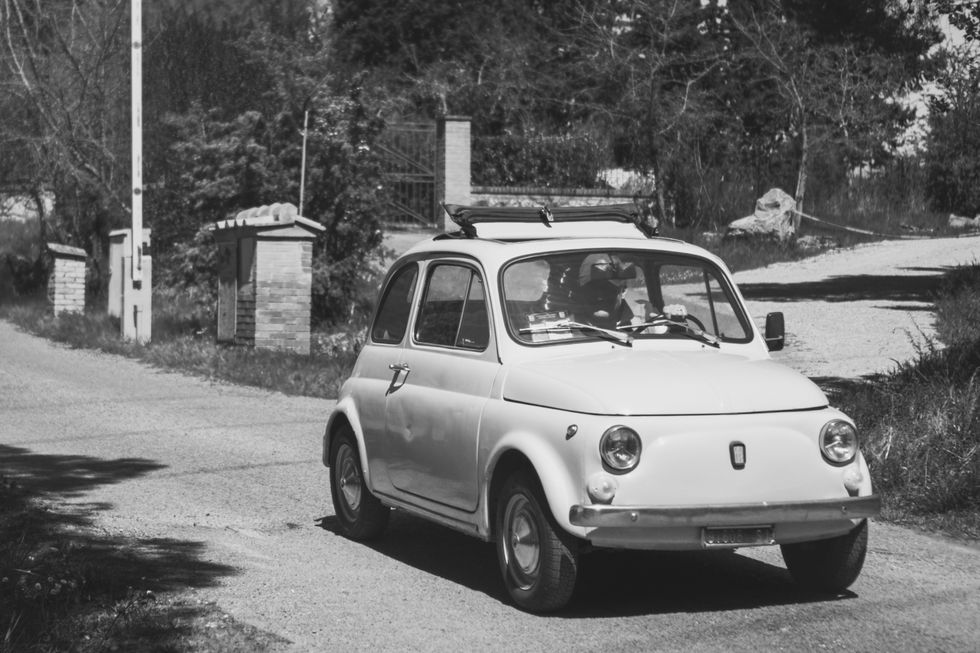
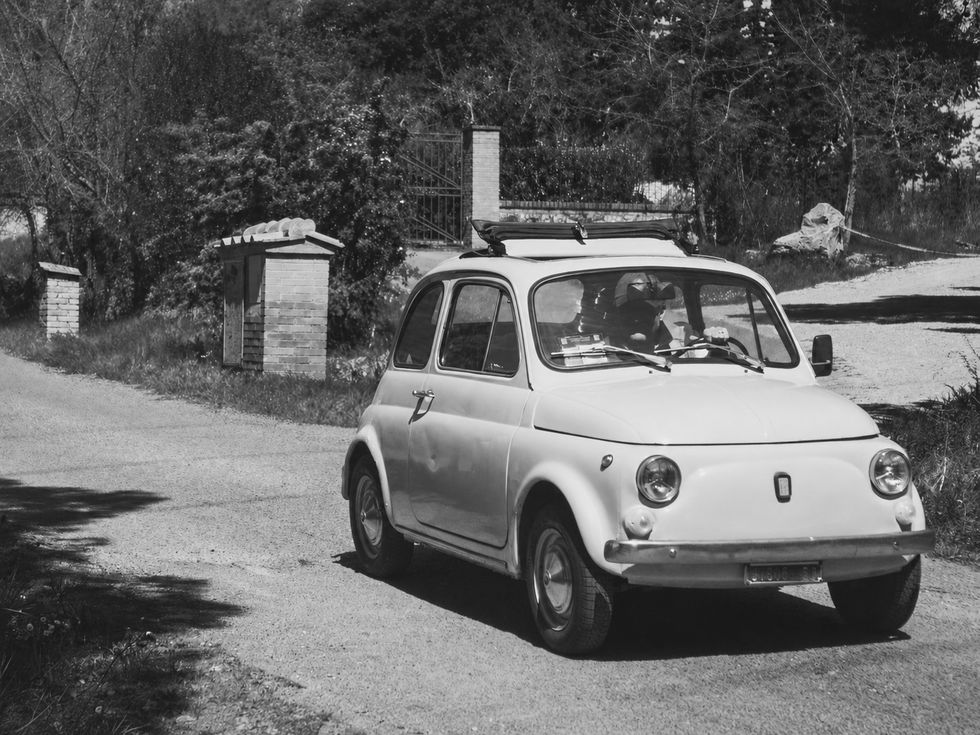
Replace Small Departure image

diff --git a/index.html b/index.html
@@ -1099,7 +1099,7 @@
 
         <figure class="work" data-category="Human Traces">
           <button class="image-button" type="button" aria-label="Open Small Departure" data-full="assets/images/37-small-departure.jpg" data-title="Small Departure" data-category-label="Human Traces" data-note="A quiet passage through a rural edge.">
-            <img src="assets/images/37-small-departure-thumb.jpg" alt="Black and white photograph of a vintage Fiat on a quiet rural road" loading="lazy" width="2048" height="1365">
+            <img src="assets/images/37-small-departure-thumb.jpg" alt="Black and white photograph of a vintage Fiat on a quiet rural road" loading="lazy" width="1448" height="1086">
           </button>
           <figcaption><span>Human Traces</span><strong>Small Departure</strong><em>A quiet passage through a rural edge.</em></figcaption>
         </figure>

diff --git a/README.md b/README.md
@@ -55,11 +55,10 @@ Included:
 
 ## Latest archive update
 
-Added two new photographs to the online archive:
+Replaced the image file for:
 
-- `36-fog-line.jpg` — **Fog Line** — Atmospheres
 - `37-small-departure.jpg` — **Small Departure** — Human Traces
+- New source file: `fiat500_final_pole_removed.jpg`
 
-Curatorial placement:
-- `Fog Line` is inserted in the Atmospheres sequence near the fog / suspended landscape works.
-- `Small Departure` is inserted in the Human Traces sequence because the image works through movement, road, vehicle and quiet human passage.
+The title, category and caption are preserved:
+- Caption: A quiet passage through a rural edge.
